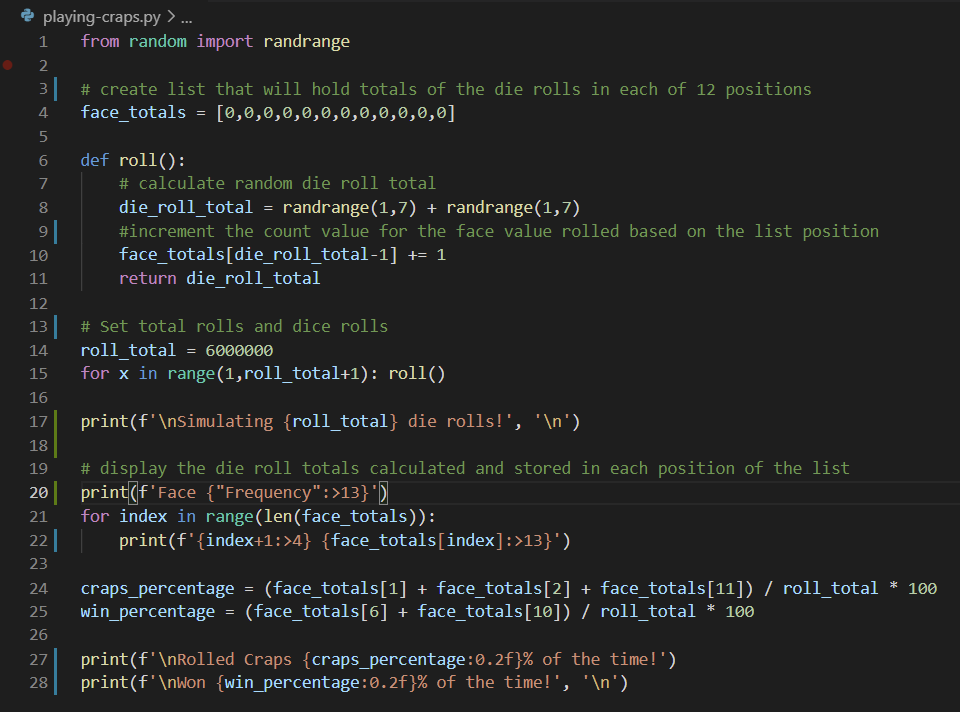
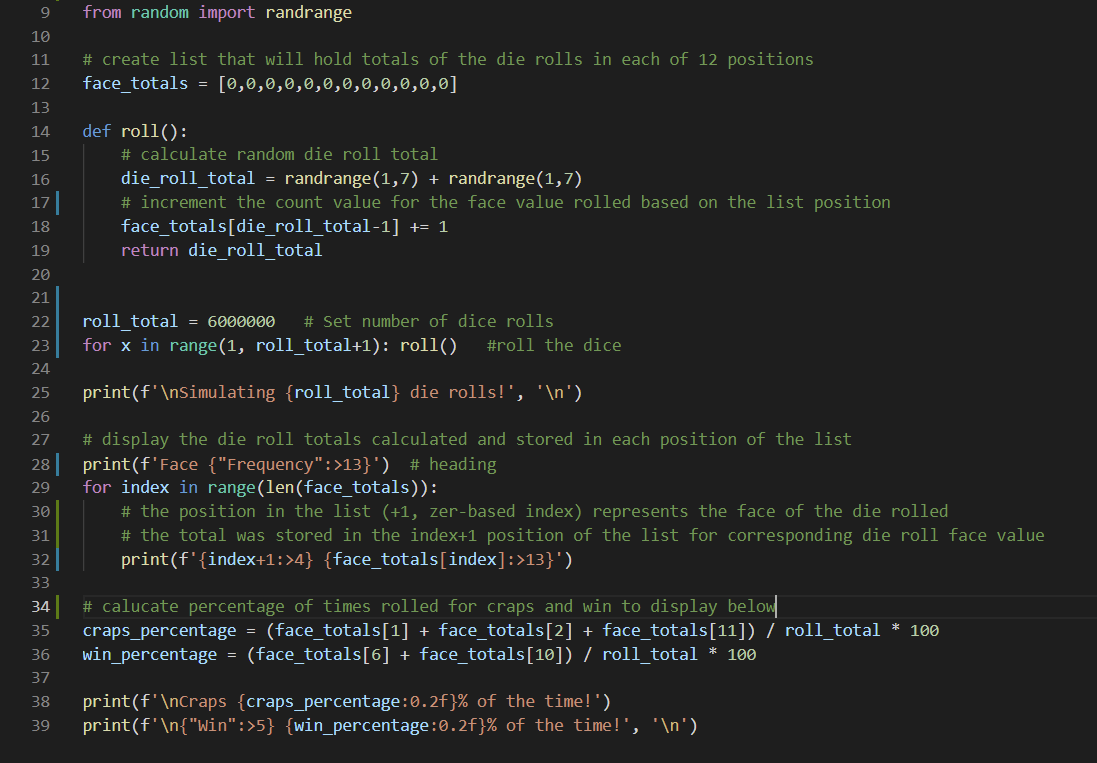
Updated comments

diff --git a/playing-craps.py b/playing-craps.py
@@ -1,3 +1,11 @@
+""" File 2 - playing-craps.py (Sections 4.4, 4.5)
+In this file, we will use random functions to simulate chance events (rolling a pair of six-sided dice). 
+Following the example provided in Section 4.4 "Rolling a Six-Sided Die 6,000,000 Times", create a simulation that rolls two dice 6 million times. Hint: On line 15, make face = random.randrange(1,7) + random.randrange(1,7) and expand the the if block to up to 12 (6+6, the maximum value of two dice).  For one possible solution, see Module 3: Project Craps (One possible solution) 
+What fraction of the time did you roll "craps"? (add the frequencies for 2, 3, or 12)
+What fraction of the time did you "win"? (add the frequencies for 7 or 11)
+Confirm you get approximately the same as the example run shown below.
+"""
+
 from random import randrange
 
 # create list that will hold totals of the die rolls in each of 12 positions
@@ -6,21 +14,24 @@ face_totals = [0,0,0,0,0,0,0,0,0,0,0,0]
 def roll():
     # calculate random die roll total
     die_roll_total = randrange(1,7) + randrange(1,7)
-    #increment the count value for the face value rolled based on the list position
+    # increment the count value for the face value rolled based on the list position
     face_totals[die_roll_total-1] += 1
     return die_roll_total
 
-# Set total rolls and dice rolls
-roll_total = 6000000
-for x in range(1, roll_total+1): roll()
+
+roll_total = 6000000   # Set number of dice rolls
+for x in range(1, roll_total+1): roll()   #roll the dice
  
 print(f'\nSimulating {roll_total} die rolls!', '\n')
 
 # display the die roll totals calculated and stored in each position of the list  
-print(f'Face {"Frequency":>13}')
+print(f'Face {"Frequency":>13}')  # heading
 for index in range(len(face_totals)): 
-    print(f'{index+1:>4} {face_totals[index]:>13}')
+    # the position in the list (+1, zer-based index) represents the face of the die rolled
+    # the total was stored in the index+1 position of the list for corresponding die roll face value
+    print(f'{index+1:>4} {face_totals[index]:>13}')  
     
+# calucate percentage of times rolled for craps and win to display below
 craps_percentage = (face_totals[1] + face_totals[2] + face_totals[11]) / roll_total * 100
 win_percentage = (face_totals[6] + face_totals[10]) / roll_total * 100
 
